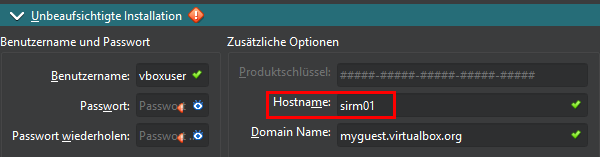
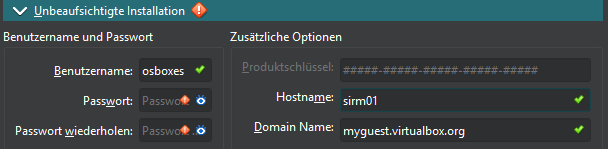
Aufgabe 1: 5

diff --git a/src/abgabe1/Abgabe 1.md b/src/abgabe1/Abgabe 1.md
@@ -32,17 +32,29 @@
           dhcp4: false
           addresses: [10.11.12.2/24] #10.11.12.3/24 für sirm02
     ````
-  - Beide virtuellen Maschinen können mittels IP-Protokoll miteinander kommunizieren.<br>
-    Ping von sirm01 auf sirm02: `ping 10.11.12.3`
-    Auf sirm02 auf Pakete lauschen: `sudo tcpdump -i any icmp`<br>
-    ![1.6.png](img/1.6.png)
-  - Beide virtuellen Maschinen haben Zugriff ins Internet.<br>
-    Testen, ob ein Call ins Internet funktioniert: `ping google.com`<br>
-    ![1.7.png](img/1.7.png)
-  - Die installierte Software ist auf dem neuesten Stand (gemäß Paketmanager).<br>
-    `sudo apt update && sudo apt upgrade`
-  - Von der einen virtuellen Maschine kann jeweils mittels SSH auf die andere zugegriffen werden. Der Zugriff mittels SSH erfordert keine Angabe eines Passworts.<br>
-    Schlüssel generieren: `ssh-keygen`<br>
-    Schlüssel kopieren: `ssh-copy-id vboxuser@10.11.12.3`<br>
-    Testen: `ssh vboxuser@10.11.12.3`<br>
-    ![1.8.png](img/1.8.png)
+- Beide virtuellen Maschinen können mittels IP-Protokoll miteinander kommunizieren.<br>
+  Ping von sirm01 auf sirm02: `ping 10.11.12.3`
+  Auf sirm02 auf Pakete lauschen: `sudo tcpdump -i any icmp`<br>
+  ![1.6.png](img/1.6.png)
+- Beide virtuellen Maschinen haben Zugriff ins Internet.<br>
+  Testen, ob ein Ping ins Internet funktioniert: `ping google.com`<br>
+  ![1.7.png](img/1.7.png)
+- Die installierte Software ist auf dem neuesten Stand (gemäß Paketmanager).<br>
+  `sudo apt update && sudo apt upgrade`
+- Von der einen virtuellen Maschine kann jeweils mittels SSH auf die andere zugegriffen werden. Der Zugriff mittels SSH erfordert keine Angabe eines Passworts.<br>
+  Schlüssel generieren: `ssh-keygen`<br>
+  Schlüssel kopieren: `ssh-copy-id osboxes@10.11.12.3`<br>
+  Testen: `ssh osboxes@10.11.12.3`<br>
+  ![1.8.png](img/1.8.png)
+
+5)**Arbeiten sie mit „Snapshots“ für ihr System:**
+- Erstellen Sie nach der Ersteinrichtung einen Snapshot.<br>
+  ![1.9.png](img/1.9.png)
+- Finden Sie einen Weg, um ihr Ubuntu-System nachhaltig unbrauchbar zu machen. Dokumentieren Sie Ihren Ansatz.<br>
+  Mit `sudo rm -rf /lib/x86_64-linux-gnu/libc.so.6` wird die Zentrale glibc-Laufzeitbibliothek entfernt, mit der sämtliche Binärdateien ausgeführt werden. Die shell selber kann daher auch nicht mehr funktionieren.
+- Stellen Sie den alten Stand mittels des Snapshots wieder her. <br>
+  Da das Ausschalten der VM nur noch über VirtualBox funktioniert, kann hier direkt der alte Snapshot geladen werden: <br>
+  ![1.10.png](img/1.10.png)
+  glibc-Libs sind wieder da: <br>
+  ![1.11.png](img/1.11.png)
+
